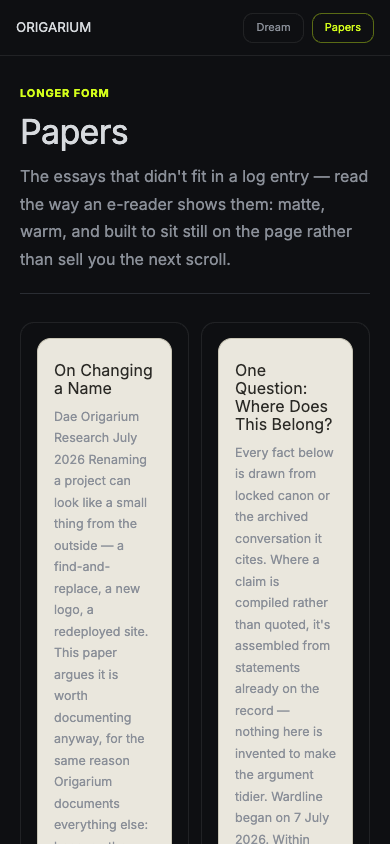
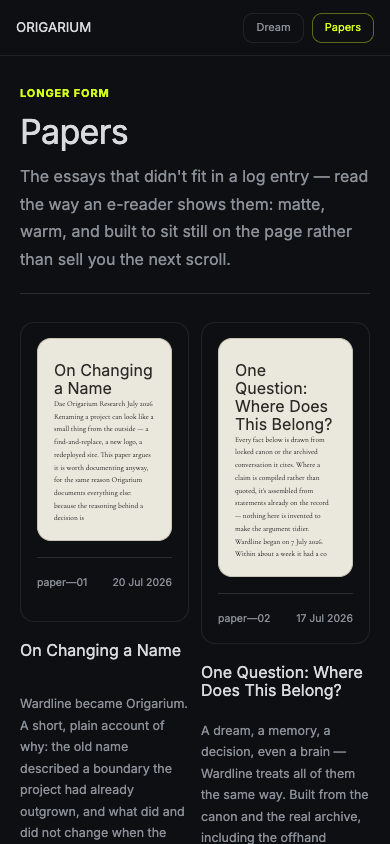
Test 02: close the archive to the original, and bound what the test claims
Two more rules, both using a token and a variant word that already
existed, so the constitution did not grow for either. Prose at caption
scale is the miniature on a card - the same primitive the reader uses,
sized down because a thumbnail depicts a document rather than being one
to read - and it now renders as the original does, Cormorant at 7.4px on
warm paper. Meta at micro scale lets a paper's number and date sit on
one line in a column half a phone wide, which is what the original does
and what --type-body-s could not fit.

The card also takes the original's shape: the framed part holds the
paper with its number and date, and the title, summary and action sit
loose beneath it.

P05 holds: 0 differing pixels on /, /voice and /ci, Flipgazine's
specimens unchanged at 29 glass surfaces with 0 nested and Poppins, core
parity clean, 74 tokens with all three constitutions complete, ratchet
unchanged.

Amendment A4 bounds the result. The owner states Origarium is four
modes in one site - the papers, a Pokemon-Go-like game view, a dream
state and a CRM - and this test measured one of them. Everything found
is real for the mode it covers, but "the core met Origarium and mostly
stayed still" is not a conclusion available from a quarter of the
product, and the evidence page must not imply coverage it does not have.
A game view would be expected to need real product behaviour, a large
D-B, which the protocol already permits; whether it needs
[…]

Changed region(s): [[0.0615, 0.4621, 0.4615, 1.0], [0.5231, 0.4929, 0.9538, 1.0]]

diff --git a/idui-core/evidence/origarium/after/papers.js b/idui-core/evidence/origarium/after/papers.js
@@ -4,11 +4,11 @@
    size, radius or face, and adds no class the library does not define. The
    only attributes it writes are the library's own semantic variants.
 
-   The miniature on each card is a document surface carrying summary-scale
-   text, not .app-prose: prose takes the constitution's reading size, and a
-   thumbnail is a representation of a document rather than something to read.
-   The original sets its miniature smaller still, at 7.4px, and that gap is
-   recorded as a deviation rather than closed with a new primitive. */
+   The miniature on each card is a document surface carrying prose at caption
+   scale - the same primitive the reader uses, sized down because a thumbnail
+   depicts a document rather than being one to read. The card follows the
+   original's shape: the framed part holds the paper and its number and date,
+   and the title, summary and action sit loose beneath it. */
 const papers = await fetch('../source/papers.fixture.json').then(r => r.json());
 
 const esc = value => String(value ?? '').replace(/[&<>"']/g, ch => ({ '&': '&amp;', '<': '&lt;', '>': '&gt;', '"': '&quot;', "'": '&#39;' }[ch]));
@@ -43,25 +43,25 @@ function prose(body, title) {
 }
 
 function cardMarkup(paper, index) {
-  return `<article class="app-card app-surface" data-paper="${index}">
-    <div class="app-card-section">
-      <div class="app-card app-surface" data-surface="document">
-        <p class="app-surface-title">${esc(paper.title)}</p>
-        <p class="app-surface-copy">${esc(opening(paper.body))}</p>
+  return `<div class="app-stack" data-paper="${index}">
+    <article class="app-card app-surface">
+      <div class="app-card-section">
+        <div class="app-card app-surface" data-surface="document">
+          <p class="app-surface-title">${esc(paper.title)}</p>
+          <div class="app-prose" data-size="caption"><p>${esc(opening(paper.body))}</p></div>
+        </div>
       </div>
-    </div>
-    <div class="app-card-section">
-      <div class="app-row" data-split="true">
-        <span class="app-surface-label">${number(index)}</span>
-        <span class="app-surface-label">${esc(dayLabel(paper.published_at))}</span>
+      <div class="app-row app-card-section" data-split="true">
+        <span class="app-list-row-meta" data-size="micro">${number(index)}</span>
+        <span class="app-list-row-meta" data-size="micro">${esc(dayLabel(paper.published_at))}</span>
       </div>
-      <h3 class="app-surface-title">${esc(paper.title)}</h3>
-      <p class="app-surface-copy">${esc(paper.summary || '')}</p>
-    </div>
-    <div class="app-row app-card-section" data-split="true">
+    </article>
+    <h3 class="app-surface-title">${esc(paper.title)}</h3>
+    <p class="app-surface-copy">${esc(paper.summary || '')}</p>
+    <div class="app-utility-row">
       <button class="app-utility-action" type="button" data-open="${index}">[+] read_</button>
     </div>
-  </article>`;
+  </div>`;
 }
 
 const archive = document.querySelector('[data-papers]');

diff --git a/idui-core/app-components.css b/idui-core/app-components.css
@@ -518,6 +518,10 @@ a.app-list-row{color:inherit;text-decoration:none}
 .app-list-row-main{min-width:0;display:grid;gap:3px}
 .app-list-row-title{font-size:var(--type-body);line-height:var(--leading-label);overflow-wrap:anywhere}
 .app-list-row-meta{color:var(--app-muted);font-size:var(--type-body-s)}
+/* Meta set down a step, where a row is narrow and the fact is a stamp rather
+   than a sentence - a paper's number and date beside each other in a column
+   half a phone wide. Existing token, existing variant word (r41). */
+.app-list-row-meta[data-size="micro"]{font-size:var(--type-micro)}
 /* An inbox row shows the first lines of its message under the meta, clamped
    to two so the list stays a list; the full text opens in the dialog. */
 .app-list-row-copy{color:var(--app-text);font-size:var(--type-body-s);line-height:var(--leading-body);display:-webkit-box;-webkit-line-clamp:2;-webkit-box-orient:vertical;overflow:hidden;overflow-wrap:anywhere}
@@ -546,6 +550,10 @@ button.app-list-row[aria-pressed="true"] .app-list-row-end{color:var(--app-accen
 .app-prose p{margin:0;font-size:var(--type-prose);line-height:var(--leading-body)}
 .app-prose h3{margin:8px 0 0;font-size:var(--type-lead);font-weight:var(--weight-regular);line-height:var(--leading-tight)}
 .app-prose ul,.app-prose ol{margin:0;padding-left:var(--space-7);display:grid;gap:6px;font-size:var(--type-prose);line-height:var(--leading-body)}
+/* A miniature of a document: the same prose, set at caption scale because it
+   is a depiction rather than something to read. The constitution already had
+   the size and the vocabulary already had the word (r41). */
+.app-prose[data-size="caption"] p,.app-prose[data-size="caption"] li{font-size:var(--type-caption)}
 .app-prose strong,.app-prose b{font-weight:var(--weight-medium)}
 /* A link in running text or in a note is the accent; nothing else in the
    library lets the UA's blue through (r34). */

diff --git a/site/app-components.css b/site/app-components.css
@@ -518,6 +518,10 @@ a.app-list-row{color:inherit;text-decoration:none}
 .app-list-row-main{min-width:0;display:grid;gap:3px}
 .app-list-row-title{font-size:var(--type-body);line-height:var(--leading-label);overflow-wrap:anywhere}
 .app-list-row-meta{color:var(--app-muted);font-size:var(--type-body-s)}
+/* Meta set down a step, where a row is narrow and the fact is a stamp rather
+   than a sentence - a paper's number and date beside each other in a column
+   half a phone wide. Existing token, existing variant word (r41). */
+.app-list-row-meta[data-size="micro"]{font-size:var(--type-micro)}
 /* An inbox row shows the first lines of its message under the meta, clamped
    to two so the list stays a list; the full text opens in the dialog. */
 .app-list-row-copy{color:var(--app-text);font-size:var(--type-body-s);line-height:var(--leading-body);display:-webkit-box;-webkit-line-clamp:2;-webkit-box-orient:vertical;overflow:hidden;overflow-wrap:anywhere}
@@ -546,6 +550,10 @@ button.app-list-row[aria-pressed="true"] .app-list-row-end{color:var(--app-accen
 .app-prose p{margin:0;font-size:var(--type-prose);line-height:var(--leading-body)}
 .app-prose h3{margin:8px 0 0;font-size:var(--type-lead);font-weight:var(--weight-regular);line-height:var(--leading-tight)}
 .app-prose ul,.app-prose ol{margin:0;padding-left:var(--space-7);display:grid;gap:6px;font-size:var(--type-prose);line-height:var(--leading-body)}
+/* A miniature of a document: the same prose, set at caption scale because it
+   is a depiction rather than something to read. The constitution already had
+   the size and the vocabulary already had the word (r41). */
+.app-prose[data-size="caption"] p,.app-prose[data-size="caption"] li{font-size:var(--type-caption)}
 .app-prose strong,.app-prose b{font-weight:var(--weight-medium)}
 /* A link in running text or in a note is the accent; nothing else in the
    library lets the UA's blue through (r34). */

diff --git a/idui-core/evidence/origarium/PROTOCOL.md b/idui-core/evidence/origarium/PROTOCOL.md
@@ -224,3 +224,31 @@ The earlier r32a specimen transfer (`idui-core/evidence/transfer-smoke.mjs`,
 `specimens.html`) stays unnumbered. It predates the adversarial series and was
 self-confirming by design — IDUI markup rendered under a second constitution —
 so it reads as background to 01 rather than as a test of its own.
+
+### A4 — 6 September 2026: the scope is one mode of four
+
+The owner states that Origarium is not the Papers archive. One site carries
+**four very different modes**: the papers, a Pokémon-Go-like game view, a dream
+state, and a CRM application.
+
+This test measured `/papers` and nothing else. That does not invalidate what it
+found — the before-metrics, the material break, the reconstruction and P05 are
+all real for the mode they cover — but it bounds what may be claimed. **"The
+core met Origarium and mostly stayed still" is not a conclusion this test can
+reach.** The defensible claim is narrower:
+
+> The core met Origarium's editorial archive and reader, and the changes it
+> needed were four reusable capabilities and no product-specific presentation.
+
+The other three modes are untested surface. A game view in particular is the
+kind of thing that would be expected to need genuine product behaviour — a
+large **D-B**, which the protocol already says can be large without concern.
+Whether it also needs product-specific *presentation* — **D-P**, the alarm — is
+simply unknown, and the evidence page must say so rather than imply coverage it
+does not have.
+
+The owner also lifted the implicit constraint that the rebuild should keep its
+class count low: a product of this range legitimately needs more primitives,
+and reluctance to add one is not a virtue when the complexity is intrinsic.
+What the protocol still forbids is unchanged — a primitive for appearance
+alone, and any presentation owned by the page.
